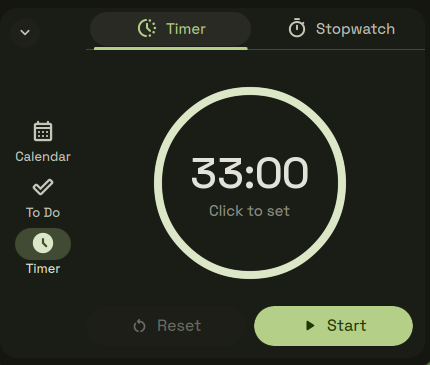
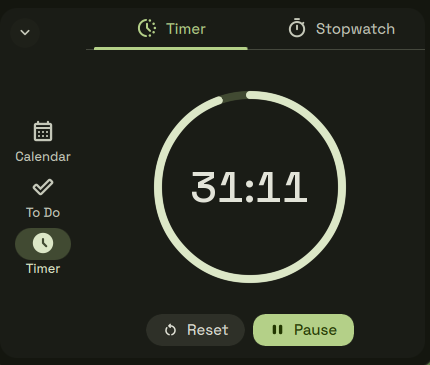
fix(ii-sidebarDashboard): compact the timer buttons; the stopwatch's frame clock never ran
The start/pause and reset/lap pair was a full-width 40px row that
outweighed the ring. It is now the compact 32px button size, as a
centred pair sized to its labels.

Stopwatch.qml read GlobalStates without `import qs`, so the frame
clock's running guard threw, and the centiseconds fell back to the
100ms service value. Resume also wrote `running` before `start`, so
the first frame after Start showed the last run's time.
check-pomodoro.py now asserts both.

diff --git a/dots/.config/quickshell/ii/modules/ii/sidebarDashboard/pomodoro/TimerButton.qml b/dots/.config/quickshell/ii/modules/ii/sidebarDashboard/pomodoro/TimerButton.qml
@@ -5,14 +5,15 @@ import QtQuick.Layouts
 
 // The button pair both tabs share, so switching tabs moves and restyles
 // nothing under the pointer. `filled` is start/pause, the rest is neutral.
+// Compact (30-32px, DESIGN.md 9): a standard 40px pill outweighed the ring.
 RippleButton {
     id: root
     property string iconName
     property bool filled
     readonly property color colContent: filled ? Appearance.colors.colOnPrimary : Appearance.colors.colOnLayer2
 
-    Layout.fillWidth: true
-    implicitHeight: 40
+    implicitHeight: 32
+    horizontalPadding: 16
     buttonRadius: Appearance.rounding.full
     colBackground: filled ? Appearance.colors.colPrimary : Appearance.colors.colLayer2
     colBackgroundHover: filled ? Appearance.colors.colPrimaryHover : Appearance.colors.colLayer2Hover
@@ -31,14 +32,14 @@ RippleButton {
 
             MaterialSymbol {
                 text: root.iconName
-                iconSize: Appearance.font.pixelSize.larger
+                iconSize: Appearance.font.pixelSize.large
                 fill: 1
                 color: root.colContent
             }
             StyledText {
                 Layout.fillWidth: true
                 text: root.buttonText
-                font.pixelSize: Appearance.font.pixelSize.normal
+                font.pixelSize: Appearance.font.pixelSize.small
                 color: root.colContent
             }
         }

diff --git a/dots/.config/quickshell/ii/modules/ii/sidebarDashboard/pomodoro/Stopwatch.qml b/dots/.config/quickshell/ii/modules/ii/sidebarDashboard/pomodoro/Stopwatch.qml
@@ -1,4 +1,5 @@
 import "../../bar/duration.js" as Duration
+import qs
 import qs.services
 import qs.modules.common
 import qs.modules.common.widgets
@@ -157,12 +158,10 @@ Item {
         RowLayout {
             id: controls
             anchors {
-                left: parent.left
-                right: parent.right
+                horizontalCenter: parent.horizontalCenter
                 bottom: parent.bottom
             }
             spacing: 8
-            uniformCellSizes: true
 
             TimerButton {
                 iconName: TimerService.stopwatchRunning ? "flag" : "restart_alt"

diff --git a/dots/.config/quickshell/ii/services/TimerService.qml b/dots/.config/quickshell/ii/services/TimerService.qml
@@ -110,8 +110,10 @@ Singleton {
 
     function stopwatchResume() {
         if (stopwatchTime === 0) Persistent.states.timer.stopwatch.laps = [];
-        Persistent.states.timer.stopwatch.running = true;
+        // Start before running: anything that samples on the running edge
+        // would otherwise read the last run's start for a frame.
         Persistent.states.timer.stopwatch.start = getCurrentTimeIn10ms() - stopwatchTime;
+        Persistent.states.timer.stopwatch.running = true;
     }
 
     function stopwatchReset() {

diff --git a/dots/.config/quickshell/ii/modules/ii/sidebarDashboard/pomodoro/PomodoroTimer.qml b/dots/.config/quickshell/ii/modules/ii/sidebarDashboard/pomodoro/PomodoroTimer.qml
@@ -77,12 +77,10 @@ Item {
         RowLayout {
             id: controls
             anchors {
-                left: parent.left
-                right: parent.right
+                horizontalCenter: parent.horizontalCenter
                 bottom: parent.bottom
             }
             spacing: 8
-            uniformCellSizes: true
 
             TimerButton {
                 iconName: "restart_alt"

diff --git a/tools/check-pomodoro.py b/tools/check-pomodoro.py
@@ -34,7 +34,14 @@ for fn in ("stopwatchPause", "stopwatchRecordLap"):
 running = re.search(r"FrameAnimation \{.*?running: ([^\n]+)", stopwatch, re.S).group(1)
 for guard in ("TimerService.stopwatchRunning", "GlobalStates.sidebarRightOpen", "SwipeView.isCurrentItem"):
     assert guard in running, f"frame clock must be gated on {guard}"
+# GlobalStates is `import qs`, not qs.modules.common. Without it the guard throws, `running`
+# is undefined, and the readout silently falls back to the 100ms service value.
+assert re.search(r"^import qs$", stopwatch, re.M), "Stopwatch.qml reads GlobalStates and must `import qs`"
 assert "Timer {" not in stopwatch, "no Timer in the stopwatch view -- it has a frame clock"
+
+resume = re.search(r"function stopwatchResume\(\) \{(.*?)\n    \}", service, re.S).group(1)
+assert resume.index("stopwatch.start =") < resume.index("stopwatch.running = true"), \
+    "write start before running: the frame clock samples on the running edge"
 
 # L used to record a lap from either tab, paused or not, pushing a stale time.
 assert re.search(r"Key_L && tabBar\.currentIndex === 1 && TimerService\.stopwatchRunning", widget)

diff --git a/.audit/ii-sidebarDashboard-pomodoro/notes.md b/.audit/ii-sidebarDashboard-pomodoro/notes.md
@@ -36,4 +36,21 @@ animating from it to `small` would sit clamped and then snap at the very end.
   That move is now `elementMove` (spatial, slight overshoot). It used to be
   `elementMoveFast`, an effects curve.
 - The play/pause pill squares to `rounding.small` while running and rounds again on pause,
-  on RippleButton's `elementMoveSmall`. Check that it is not too subtle at 40px.
+  on RippleButton's `elementMoveSmall`. Check that it is not too subtle at 32px.
+
+**Follow-up, same day: compact buttons and a frame clock that had never run.**
+- The owner found the 40px full-width pair too heavy against the ring. The buttons are now
+  the compact 32px size (DESIGN.md 9, and 32 is the minimum hit area), with `small` text
+  and a `large` icon. They sit as a centred pair sized to their labels. `uniformCellSizes`
+  was tried for equal widths, but it elided "Reset" to "Res…", so it was dropped.
+- `GlobalStates` is `import qs` (shell root), not `qs.modules.common`. AGENTS.md said
+  otherwise and has been corrected. In the first commit the frame clock's `running`
+  guard threw a ReferenceError whenever the stopwatch ran, so it came out undefined, and
+  the readout quietly showed the 100ms service value. The shots in that commit looked
+  fine because 100ms samples also land on odd hundredths. A 40ms burst of `grim` frames
+  is what tells the two apart: frame steps (.05, .09, .12), not 0.1s steps.
+- `stopwatchResume` set `running` before `start`. So the clock's sample on the running
+  edge read the last run's start for one frame, and the first frame after Start showed a
+  stale time (00:22.84 once, 04:51 another time). Start is written first now.
+- **Driving it:** a shell restart puts the inner tab back on Timer. A click aimed at the
+  stopwatch's Start then starts the countdown instead, so screenshot before every click.

diff --git a/AGENTS.md b/AGENTS.md
@@ -420,7 +420,7 @@ But focus on the ii (Illogical-Impulse) panel family when making any changes unl
 ### Core Singletons (`modules/common/`)
 
 - **`Config.qml`** — All shell options. Backed by `FileView` + `JsonAdapter` at `~/.config/illogical-impulse/config.json`. Has `readWriteDelay` (default 75ms) to batch writes. Check `Config.ready` before accessing options.
-- **`GlobalStates.qml`** — Centralized UI state booleans (`sidebarLeftOpen`, `sidebarRightOpen`, `overlayOpen`, `overviewOpen`, etc.). Also has `effectiveLeftOpen`/`effectiveRightOpen` computed properties that respect `Config.options.sidebar.position`.
+- **`GlobalStates.qml`** (shell root, `import qs` — not this directory) — Centralized UI state booleans (`sidebarLeftOpen`, `sidebarRightOpen`, `overlayOpen`, `overviewOpen`, etc.). Also has `effectiveLeftOpen`/`effectiveRightOpen` computed properties that respect `Config.options.sidebar.position`.
 - **`Directories.qml`** — XDG paths and internal config paths. All paths use `file://` protocol except noted "without file://" ones. Use `FileUtils.trimFileProtocol()` to strip.
 - **`Appearance.qml`** — Colors, fonts, rounding, animation curves
 - **`Icons.qml`**, **`Images.qml`** — Icon/image resources
